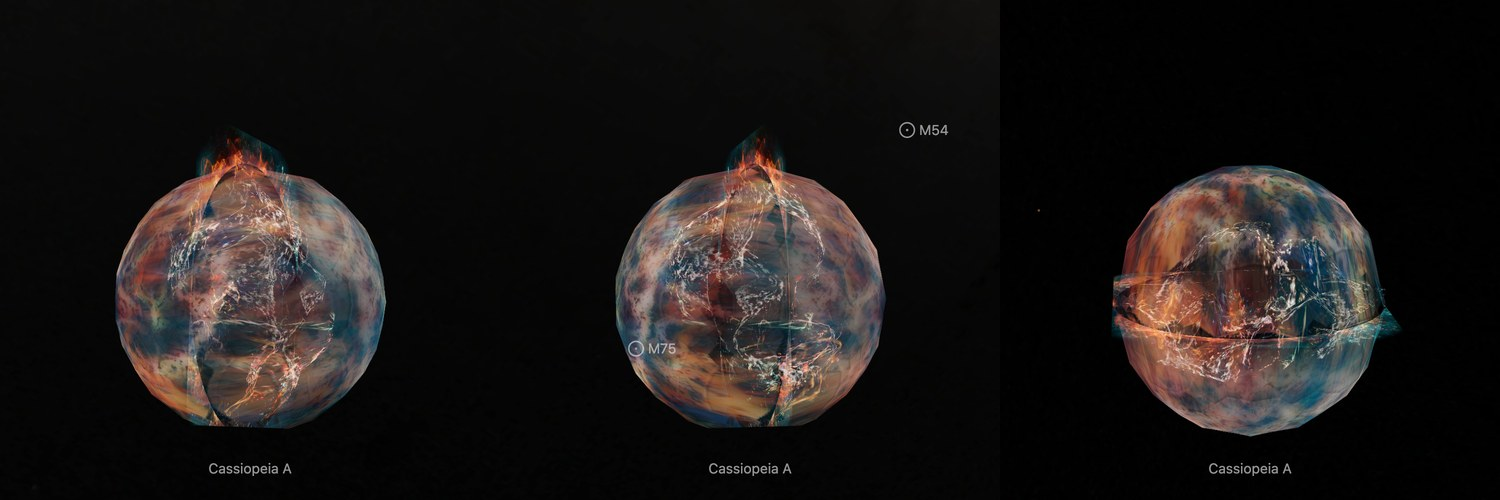
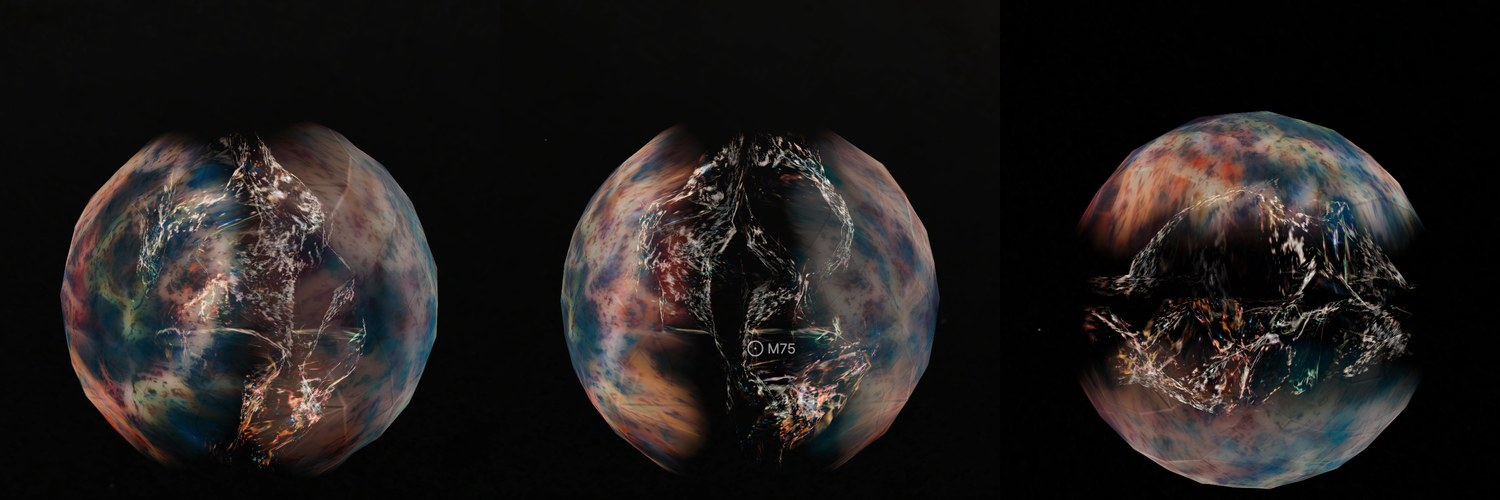
fix(nebulae): fade Cassiopeia A's mid-infrared picture inside its mosaic

diff --git a/src/objects/cassiopeia-a-miri-layers/README.md b/src/objects/cassiopeia-a-miri-layers/README.md
@@ -22,7 +22,7 @@ ESA/Webb's mid-infrared picture of the supernova remnant Cassiopeia A, as a shel
 - **Stars:** not removed. The picture shows few, and they lie on the shell with the smooth light.
 - **Drawing:** the surfaces are meshes of flat patches, as in the near-infrared bank. The face is 1,500 px of the picture's 4,008.
 - **Size:** 7.41 × 7.41 arcmin, 7.33 pc wide at 3,400 pc; the forward shock's sphere is 5.04 pc across.
-- **Rim:** the picture fades out between 185.6″ and 206.2″ from the expansion centre, the largest circle the frame holds, so more of the surroundings show than in the near-infrared dataset, whose picture ends at the shock.
+- **Rim:** the published picture is a square mosaic that does not fill its frame: half the frame is empty. Its own light reaches 142.8″ from the expansion centre at its nearest edge, and the picture fades out between 128.5″ and 142.8″, the largest circle that light fills, so no straight edge shows. The generator measures it: the dark border joined to the frame's edge is the empty part.
 
 ## Evidence
 
@@ -40,8 +40,7 @@ No bake code changes with this dataset.
 
 - The Green Monster is on the wrong side. X-ray spectra put it in front of the remnant (Vink et al. 2024; De Looze et al. 2024), but no paper gives its outline as numbers, so it is not treated apart: its broad light is shared by the sphere's two halves and the rest of it lies on the half behind the picture's plane.
 - The depths are measured in one line, [Ar II]. Dust, which is most of this picture's light, and the other lines are drawn at those depths or on the shock's sphere.
-- Light outside the forward shock's sphere, out to 206″, lies on the picture's plane.
-- The published picture is a square turned on its corner. Inside the rim's circle its empty corners are dark.
+- The rim's circle, 142.8″, is inside the forward shock's 153″: the remnant's outermost 10″ and everything beyond, which the mosaic holds on its other sides, are not drawn.
 - Everything the [near-infrared dataset's known problems](../cassiopeia-a-layers/README.md#known-problems) say of the depths and the meshes holds here.
 - The picture is 0.11″ a pixel and is drawn at 1,500 px, 0.30″ a pixel.
 - Colors are the publisher's display composite, not a measurement.
